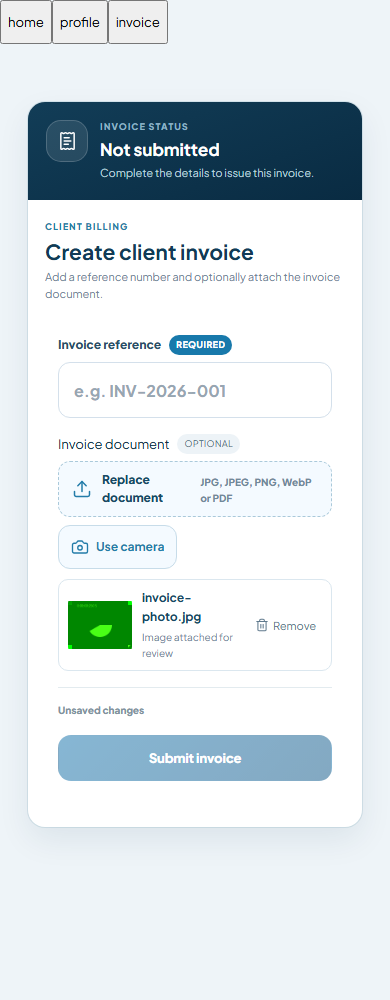
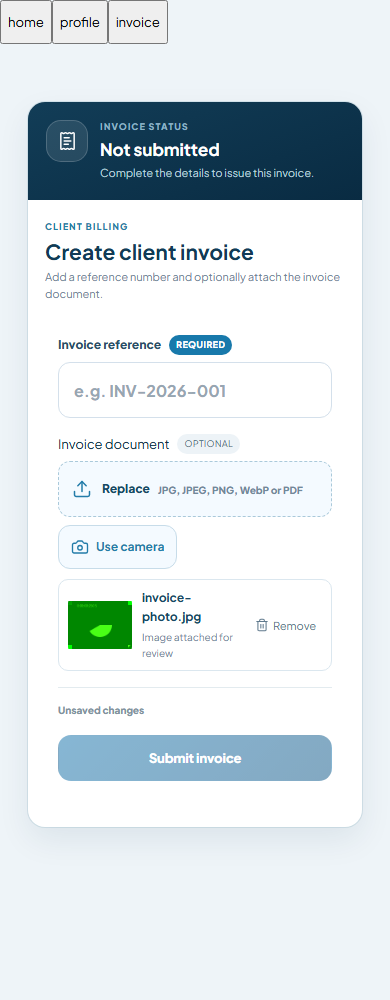
feat: add payout receipt upload functionality with validation and error handling

Changed region(s): [[0.2462, 0.465, 0.8, 0.527]]

diff --git a/src/InvoiceAttachment.jsx b/src/InvoiceAttachment.jsx
@@ -3,7 +3,7 @@ import { Camera, Check, FileText, RotateCcw, Trash2, Upload, X } from 'lucide-re
 import { PortalOverlay } from './Dialog'
 
 export const invoiceFileTypes = ['image/jpeg', 'image/png', 'image/webp', 'application/pdf']
-const cameraUnavailable = 'Camera access is unavailable. Please upload the invoice instead.'
+const cameraUnavailable = kind => `Camera access is unavailable. Please upload the ${kind} instead.`
 
 function usePreview(file) {
   const [url, setUrl] = useState('')
@@ -16,7 +16,7 @@ function usePreview(file) {
   return url
 }
 
-function InvoiceCamera({ onAccept, onClose }) {
+function InvoiceCamera({ onAccept, onClose, kind = 'invoice' }) {
   const video = useRef(null)
   const stream = useRef(null)
   const mounted = useRef(false)
@@ -29,12 +29,12 @@ function InvoiceCamera({ onAccept, onClose }) {
   useEffect(() => {
     let active = true
     mounted.current = true
-    if (!navigator.mediaDevices?.getUserMedia) setError(cameraUnavailable)
+    if (!navigator.mediaDevices?.getUserMedia) setError(cameraUnavailable(kind))
     else navigator.mediaDevices.getUserMedia({ video: { facingMode: { ideal: 'environment' } }, audio: false }).then(next => {
       if (!active) { next.getTracks().forEach(track => track.stop()); return }
       stream.current = next
-      if (video.current) { video.current.srcObject = next; video.current.play().catch(() => { if (active) { stop(); setError(cameraUnavailable) } }) }
-    }).catch(() => { if (active) setError(cameraUnavailable) })
+      if (video.current) { video.current.srcObject = next; video.current.play().catch(() => { if (active) { stop(); setError(cameraUnavailable(kind)) } }) }
+    }).catch(() => { if (active) setError(cameraUnavailable(kind)) })
     return () => { active = false; mounted.current = false; stop(); if (video.current) video.current.srcObject = null }
   }, [])
   const close = () => { stop(); onClose() }
@@ -50,34 +50,36 @@ function InvoiceCamera({ onAccept, onClose }) {
       context.drawImage(source, 0, 0)
       const blob = await new Promise(resolve => canvas.toBlob(resolve, 'image/jpeg', .95))
       if (!blob) throw new Error('Could not capture the photo. Please try again or upload the invoice.')
-      if (mounted.current) setPhoto(new File([blob], 'invoice-photo.jpg', { type: 'image/jpeg' }))
+      if (mounted.current) setPhoto(new File([blob], `${kind}-photo.jpg`, { type: 'image/jpeg' }))
     } catch (failure) { if (mounted.current) setError(failure.message) }
     finally { if (mounted.current) setCapturing(false) }
   }
-  return <PortalOverlay className="camy-invoice-camera-layer" label="Invoice camera" onClose={close}><section className="camy-invoice-camera"><header><div><h2>{photo ? 'Review invoice photo' : 'Photograph invoice'}</h2><p>{photo ? 'Use this photo or retake it before attaching.' : 'Keep the complete invoice in view and make sure the text is readable.'}</p></div><button type="button" onClick={close} aria-label="Close invoice camera"><X/></button></header>
+  return <PortalOverlay className="camy-invoice-camera-layer" label={`${kind === 'receipt' ? 'Receipt' : 'Invoice'} camera`} onClose={close}><section className="camy-invoice-camera"><header><div><h2>{photo ? `Review ${kind} photo` : `Photograph ${kind}`}</h2><p>{photo ? 'Use this photo or retake it before attaching.' : `Keep the complete ${kind} in view and make sure the text is readable.`}</p></div><button type="button" onClick={close} aria-label="Close invoice camera"><X/></button></header>
     {!error && !ready && <p role="status">Requesting camera access...</p>}
     <video ref={video} autoPlay muted playsInline hidden={Boolean(photo) || Boolean(error)} onLoadedMetadata={() => setReady(Boolean(video.current?.videoWidth))}/>
-    {photo && preview && <img className="camy-invoice-captured" src={preview} alt="Captured invoice for review"/>}
+    {photo && preview && <img className="camy-invoice-captured" src={preview} alt={`Captured ${kind} for review`}/>}
     {error && <p className="market-error" role="alert">{error}</p>}
-    <footer>{photo ? <><button type="button" className="btn secondary" onClick={() => { setPhoto(null); setError('') }}><RotateCcw/> Retake</button><button type="button" className="btn primary" onClick={() => { stop(); onAccept(photo); onClose() }}><Check/> Use photo</button></> : <><button type="button" className="btn secondary" onClick={close}>{error ? 'Close and upload document' : 'Cancel'}</button><button type="button" className="btn primary" disabled={!ready || capturing || Boolean(error)} onClick={capture}><Camera/>{capturing ? 'Capturing...' : 'Capture photo'}</button></>}</footer>
+    <footer>{photo ? <><button type="button" className="btn secondary" onClick={() => { setPhoto(null); setError('') }}><RotateCcw/> Retake</button><button type="button" className="btn primary" onClick={() => { stop(); onAccept(photo); onClose() }}><Check/> Use photo</button></> : <><button type="button" className="btn secondary" onClick={close}>{error ? kind === 'receipt' ? 'Close and upload receipt' : 'Close and upload document' : 'Cancel'}</button><button type="button" className="btn primary" disabled={!ready || capturing || Boolean(error)} onClick={capture}><Camera/>{capturing ? 'Capturing...' : 'Capture photo'}</button></>}</footer>
   </section></PortalOverlay>
 }
 
-export function InvoiceAttachment({ file, onChange, disabled = false }) {
+export function InvoiceAttachment({ file, onChange, disabled = false, kind = 'invoice' }) {
   const [cameraOpen, setCameraOpen] = useState(false)
+  const [fromCamera, setFromCamera] = useState(false)
   const [error, setError] = useState('')
   const input = useRef(null)
   const preview = usePreview(file)
-  const choose = next => {
+  const choose = (next, captured = false) => {
     if (!next) return
-    if (!invoiceFileTypes.includes(next.type)) { setError('Use a JPG, JPEG, PNG, WebP or PDF invoice.'); return }
-    setError(''); onChange(next)
+    if (!invoiceFileTypes.includes(next.type)) { setError(`Use a JPG, JPEG, PNG, WebP or PDF ${kind}.`); return }
+    setError(''); setFromCamera(captured); onChange(next)
   }
   return <div className={`invoice-file-field camy-invoice-attachment ${file ? 'selected' : ''}`}>
-    <span>Invoice document <em>Optional</em></span>
-    <div className="camy-invoice-methods"><label className={`camy-invoice-upload ${disabled ? 'disabled' : ''}`}><input ref={input} type="file" accept="image/jpeg,image/png,image/webp,application/pdf" disabled={disabled} onChange={event => { choose(event.target.files?.[0]); event.target.value = '' }}/><Upload/><span><strong>{file ? 'Replace document' : 'Upload document'}</strong><small>JPG, JPEG, PNG, WebP or PDF</small></span></label><button type="button" className="camy-invoice-camera-button" disabled={disabled} onClick={() => { setError(''); setCameraOpen(true) }}><Camera/> Use camera</button></div>
-    {file && <div className="camy-invoice-file-preview">{preview ? <img src={preview} alt="Selected invoice preview"/> : <FileText/>}<div><strong>{file.name}</strong><small>{file.type === 'application/pdf' ? 'PDF document' : 'Image attached for review'}</small></div><button type="button" disabled={disabled} aria-label="Remove invoice attachment" onClick={() => { onChange(null); setError(''); if (input.current) input.current.value = '' }}><Trash2/> Remove</button></div>}
+    <span>{kind === 'receipt' ? 'Payment proof' : <>Invoice document <em>Optional</em></>}</span>
+    <div className="camy-invoice-methods"><label className={`camy-invoice-upload ${disabled ? 'disabled' : ''}`}><input ref={input} type="file" accept="image/jpeg,image/png,image/webp,application/pdf" disabled={disabled} onChange={event => { choose(event.target.files?.[0]); event.target.value = '' }}/><Upload/><span><strong>{file ? 'Replace' : kind === 'receipt' ? 'Upload receipt' : 'Upload document'}</strong><small>JPG, JPEG, PNG, WebP or PDF</small></span></label><button type="button" className="camy-invoice-camera-button" disabled={disabled} onClick={() => { setError(''); setCameraOpen(true) }}><Camera/> Use camera</button></div>
+    {file && <div className="camy-invoice-file-preview">{preview ? <img src={preview} alt={`Selected ${kind} preview`}/> : <FileText/>}<div><strong>{file.name}</strong><small>{file.type === 'application/pdf' ? 'PDF document' : 'Image attached for review'}</small></div><button type="button" disabled={disabled} aria-label={`Remove ${kind} attachment`} onClick={() => { onChange(null); setError(''); if (input.current) input.current.value = '' }}><Trash2/> Remove</button></div>}
     {error && <p className="market-error" role="alert">{error}</p>}
-    {cameraOpen && <InvoiceCamera onClose={() => setCameraOpen(false)} onAccept={choose}/>}
+    {kind === 'receipt' && file && fromCamera && <button type="button" className="camy-receipt-retake" disabled={disabled} onClick={() => setCameraOpen(true)}><RotateCcw/> Retake</button>}
+    {cameraOpen && <InvoiceCamera kind={kind} onClose={() => setCameraOpen(false)} onAccept={next => choose(next, true)}/>}
   </div>
 }

diff --git a/src/App.jsx b/src/App.jsx
@@ -1,3 +1,4 @@
+import { uploadPayoutReceipt, cancelPayoutReceipt, payoutReceiptTypes } from './payoutReceipts'
 import { WhatsAppCommunity } from './WhatsAppCommunity'
 import { InvoiceAttachment } from './InvoiceAttachment'
 import { customerOrderDateRange, filterCustomerOrders, downloadCustomerOrders } from './customerOrdersExport'
@@ -1525,11 +1526,13 @@ export function OrderInvoicePanel({ order, admin, onDone }) {
   </section>
 }
 
-function DropshipPayoutPanel({ order, admin, entrepreneur, onEditEntrepreneur, onDone, onViewCommission, compact=false }) {
+export function DropshipPayoutPanel({ order, admin, entrepreneur, onEditEntrepreneur, onDone, onViewCommission, compact=false }) {
   const [reference,setReference]=useState(order.payoutReference||'')
   const [file,setFile]=useState(null)
   const [busy,setBusy]=useState(false)
   const [error,setError]=useState('')
+  const savingRef=useRef(false)
+  const stagedReceipt=useRef(null)
   const margin=Number(order.entrepreneurMargin||0)
   const camyCost=Number(order.camyCost??order.amount)
   const clientTotal=Number(order.amount||0)
@@ -1551,10 +1554,10 @@ function DropshipPayoutPanel({ order, admin, entrepreneur, onEditEntrepreneur, o
   )
   const payoutNeedsBank = canTransfer && !bankComplete
   const payoutLabel=order.payoutStatus==='paid'?'Paid':order.payoutStatus==='pending_transfer'?'Ready to transfer':order.payoutStatus==='reversal_required'?'Reversal required':order.payoutStatus==='not_required'?'No payout due':'Waiting for delivery'
-  const chooseReceipt=event=>{const selected=event.target.files?.[0]||null;if(!selected){setFile(null);return}if(!['image/jpeg','image/png','image/webp','application/pdf'].includes(selected.type)){event.target.value='';setFile(null);setError('Choose a JPG, PNG, WebP or PDF bank receipt.');return}setFile(selected);setError('')}
+  const chooseReceipt=selected=>{if(stagedReceipt.current?.file!==selected){cancelPayoutReceipt(order.id,stagedReceipt.current);stagedReceipt.current=null}setFile(selected);setError('')}
   const upload=async event=>{
     event.preventDefault()
-    if(busy)return
+    if(savingRef.current)return
     if(!reference.trim()){
       setError('Enter the bank transfer reference before confirming the payout.')
       return
@@ -1563,10 +1566,19 @@ function DropshipPayoutPanel({ order, admin, entrepreneur, onEditEntrepreneur, o
       setError('Attach the bank transfer receipt before confirming the payout.')
       return
     }
-    if(!['image/jpeg','image/png','image/webp','application/pdf'].includes(file.type)||file.size>5*1024*1024){setError('Choose a JPG, PNG, WebP or PDF receipt up to 5 MB.');return}
-    setBusy(true);setError('')
-    try{const receipt=await readReceiptFile(file);const result=await api('/marketplace/orders/'+encodeURIComponent(order.id)+'/payout',{method:'POST',body:JSON.stringify({reference:reference.trim(),receipt})});onDone?.(result.order,result.message)}
-    catch(reason){setError(reason.message)}finally{setBusy(false)}
+    if(!payoutReceiptTypes.includes(file.type)){setError('Please upload a JPG, PNG, WebP or PDF receipt.');return}
+    savingRef.current=true;setBusy(true);setError('')
+    try{
+      const receiptUpload=await uploadPayoutReceipt(order.id,file,stagedReceipt.current,value=>{stagedReceipt.current=value})
+      const result=await api('/marketplace/orders/'+encodeURIComponent(order.id)+'/payout',{method:'POST',timeoutMs:60000,body:JSON.stringify({reference:reference.trim(),receiptUpload})})
+      stagedReceipt.current=null
+      onDone?.(result.order,'Payout recorded successfully.')
+    }catch(reason){
+      // A response may be interrupted after a successful commit. Reconcile the
+      // existing order before offering a retry; never create a second payment.
+      try{const latest=await api('/marketplace/state');const paid=latest.orders?.find(item=>item.id===order.id&&item.payoutStatus==='paid'&&item.payoutReference===reference.trim());if(paid){stagedReceipt.current=null;onDone?.(paid,'Payout recorded successfully.');return}}catch{}
+      setError(reason.status===413?'This receipt is larger than the storage service can process. Please upload another copy.':/cannot reach|took too long|network|failed to fetch/i.test(reason.message)?'The upload was interrupted. Please check your connection and try again.':reason.message)
+    }finally{savingRef.current=false;setBusy(false)}
   }
   if(order.orderMode!=='dropship')return null
   if(!admin){
@@ -1617,22 +1629,10 @@ function DropshipPayoutPanel({ order, admin, entrepreneur, onEditEntrepreneur, o
             />
           </label>
 
-          <label className={`receipt-upload-v3 ${file ? 'selected' : ''}`}>
-            <input
-              required
-              type="file"
-              accept="image/png,image/jpeg,image/webp,application/pdf"
-              onChange={chooseReceipt}
-            />
-            <FileText/>
-            <span>
-              <strong>{file ? 'Receipt selected' : 'Choose transfer receipt'}</strong>
-              <small>{file ? file.name : 'JPG, PNG, WebP or PDF · maximum 5 MB'}</small>
-            </span>
-          </label>
+          <div className="camy-payout-proof"><InvoiceAttachment kind="receipt" file={file} onChange={chooseReceipt} disabled={busy}/></div>
         </div>
 
-        {error && <p className="market-error">{error}</p>}
+        {error && <p className="market-error" role="alert">{error}</p>}
         <Button
           type="submit"
           disabled={busy}

diff --git a/src/camy-additions.css b/src/camy-additions.css
@@ -2,3 +2,5 @@
 .camy-invoice-attachment>span{display:flex;align-items:center;gap:8px}.camy-invoice-methods{display:flex;align-items:stretch;gap:8px;flex-wrap:wrap;margin-top:7px}.camy-invoice-methods .camy-invoice-upload{display:flex;align-items:center;gap:10px;flex:1 1 170px;min-width:0;min-height:56px;padding:8px 13px;border:1px dashed #aac9da;border-radius:12px;color:#237ca9;background:#f4faff;cursor:pointer;position:relative}.camy-invoice-upload input{position:absolute;width:1px;height:1px;opacity:0}.camy-invoice-upload>svg{width:20px;flex-shrink:0}.camy-invoice-upload>span{min-width:0}.camy-invoice-upload strong,.camy-invoice-upload small{display:block}.camy-invoice-upload strong{font-size:12px;color:#194965}.camy-invoice-upload small{font-size:10px;color:#71899a;margin-top:3px}.camy-invoice-methods .camy-invoice-camera-button{display:inline-flex;align-items:center;justify-content:center;gap:7px;border:1px solid #c7dce9;border-radius:12px;padding:9px 12px;font-size:12px;font-weight:700;background:#f4faff;color:#237ca9;cursor:pointer}.camy-invoice-camera-button svg{width:18px;height:18px}.camy-invoice-upload:focus-within,.camy-invoice-camera-button:focus-visible{outline:2px solid #298dbd;outline-offset:2px}.camy-invoice-upload.disabled{opacity:.6;cursor:default}.camy-invoice-file-preview{display:flex;align-items:center;gap:10px;margin-top:10px;min-width:0;padding:9px;border:1px solid #dbe7ef;border-radius:10px;background:#fff}.camy-invoice-file-preview>img{width:64px;height:54px;object-fit:contain;border-radius:5px;flex-shrink:0}.camy-invoice-file-preview>svg{width:30px;height:35px;color:#237ca9;flex-shrink:0}.camy-invoice-file-preview>div{min-width:0;flex:1}.camy-invoice-file-preview strong{display:block;overflow-wrap:anywhere;font-size:12px;color:#194965}.camy-invoice-file-preview small{display:block;font-size:10px;margin-top:4px;color:#71899a}.camy-invoice-file-preview button{display:inline-flex;align-items:center;gap:4px;flex-shrink:0;border:0;background:transparent;color:#607a8d;font-size:11px;padding:6px;cursor:pointer}.camy-invoice-file-preview button svg{width:14px;height:14px}
 .camy-invoice-camera-layer{position:fixed;inset:0;z-index:3200;background:rgba(7,28,50,.66);display:grid;place-items:center;padding:20px}.camy-invoice-camera{width:min(720px,100%);max-height:calc(100dvh - 40px);overflow:auto;background:white;border:1px solid #dbe7ef;border-radius:18px;padding:22px}.camy-invoice-camera>header{display:flex;align-items:flex-start;gap:12px;justify-content:space-between;margin-bottom:16px}.camy-invoice-camera h2{margin:0;font-size:21px;color:#194965}.camy-invoice-camera header p{font-size:13px;line-height:1.6;color:#6b8497;margin:7px 0 0}.camy-invoice-camera header>button{border:0;background:transparent;color:#607a8d;padding:4px;cursor:pointer}.camy-invoice-camera video,.camy-invoice-camera .camy-invoice-captured{display:block;width:100%;max-height:58dvh;object-fit:contain;background:#eef4f8;border-radius:10px}.camy-invoice-camera video[hidden]{display:none}.camy-invoice-camera footer{display:flex;flex-wrap:wrap;justify-content:flex-end;gap:10px;margin-top:16px}.camy-invoice-camera button:disabled{opacity:.5;cursor:default}
 @media(max-width:640px){.camy-community-banner{flex-wrap:wrap;padding:14px}.camy-community-banner .camy-community-copy{flex-basis:calc(100% - 50px)}.camy-community-banner .camy-community-join{margin-left:49px;font-size:12px;min-height:38px}.camy-invoice-camera-layer{padding:10px}.camy-invoice-camera{padding:16px;max-height:calc(100dvh - 20px)}.camy-invoice-camera h2{font-size:18px}.camy-invoice-camera footer .btn{flex:1;min-width:100px}}
+
+.camy-payout-proof{min-width:0}.camy-payout-proof .camy-invoice-attachment>span{font-size:12px;font-weight:700}.camy-receipt-retake{display:inline-flex;align-items:center;gap:5px;padding:6px 0;margin-top:5px;border:0;color:#237ca9;background:transparent;font-size:12px;cursor:pointer}.camy-receipt-retake svg{width:14px;height:14px}

diff --git a/src/payoutReceipts.js b/src/payoutReceipts.js
@@ -1,0 +1,38 @@
+import { api } from './api'
+
+export const payoutReceiptTypes = ['image/jpeg', 'image/png', 'image/webp', 'application/pdf']
+function friendlyFailure(error) {
+  if(error.status===413)return new Error('This receipt is larger than the storage service can process. Please upload another copy.')
+  if(/cannot reach|took too long|network|failed to fetch/i.test(error.message))return new Error('The upload was interrupted. Please check your connection and try again.')
+  return error
+}
+function base64(bytes) {
+  let binary=''
+  for(let offset=0;offset<bytes.length;offset+=8192)binary+=String.fromCharCode(...bytes.subarray(offset,offset+8192))
+  return btoa(binary)
+}
+export async function uploadPayoutReceipt(orderId,file,staged,onStage) {
+  if(!payoutReceiptTypes.includes(file.type))throw new Error('Please upload a JPG, PNG, WebP or PDF receipt.')
+  const endpoint=`/marketplace/orders/${encodeURIComponent(orderId)}/payout-upload`
+  const post=(path,data)=>api(path,{method:'POST',timeoutMs:60000,body:JSON.stringify(data)})
+  try {
+    let upload=staged?.file===file?staged:null
+    if(!upload){const result=await post(endpoint,{mime:file.type,size:file.size,name:file.name});upload={file,token:result.uploadId};onStage(upload)}
+    let state=await post(`${endpoint}/${upload.token}`,{action:'status'})
+    if(state.ready)return upload.token
+    // Chunking limits request memory/body size, not the size of a receipt file.
+    const chunkSize=256*1024
+    for(let offset=Number(state.offset);offset<file.size;){
+      const bytes=new Uint8Array(await file.slice(offset,offset+chunkSize).arrayBuffer())
+      state=await post(`${endpoint}/${upload.token}`,{action:'chunk',offset,bytes:base64(bytes)})
+      if(!Number.isSafeInteger(state.offset)||state.offset<=offset||state.offset>file.size)throw new Error('Receipt upload was interrupted. Please try again.')
+      offset=state.offset
+    }
+    await post(`${endpoint}/${upload.token}`,{action:'finish'})
+    return upload.token
+  }catch(error){throw friendlyFailure(error)}
+}
+export function cancelPayoutReceipt(orderId,upload) {
+  if(!upload?.token)return
+  return api(`/marketplace/orders/${encodeURIComponent(orderId)}/payout-upload/${upload.token}`,{method:'POST',body:JSON.stringify({action:'cancel'})}).catch(()=>{})
+}
